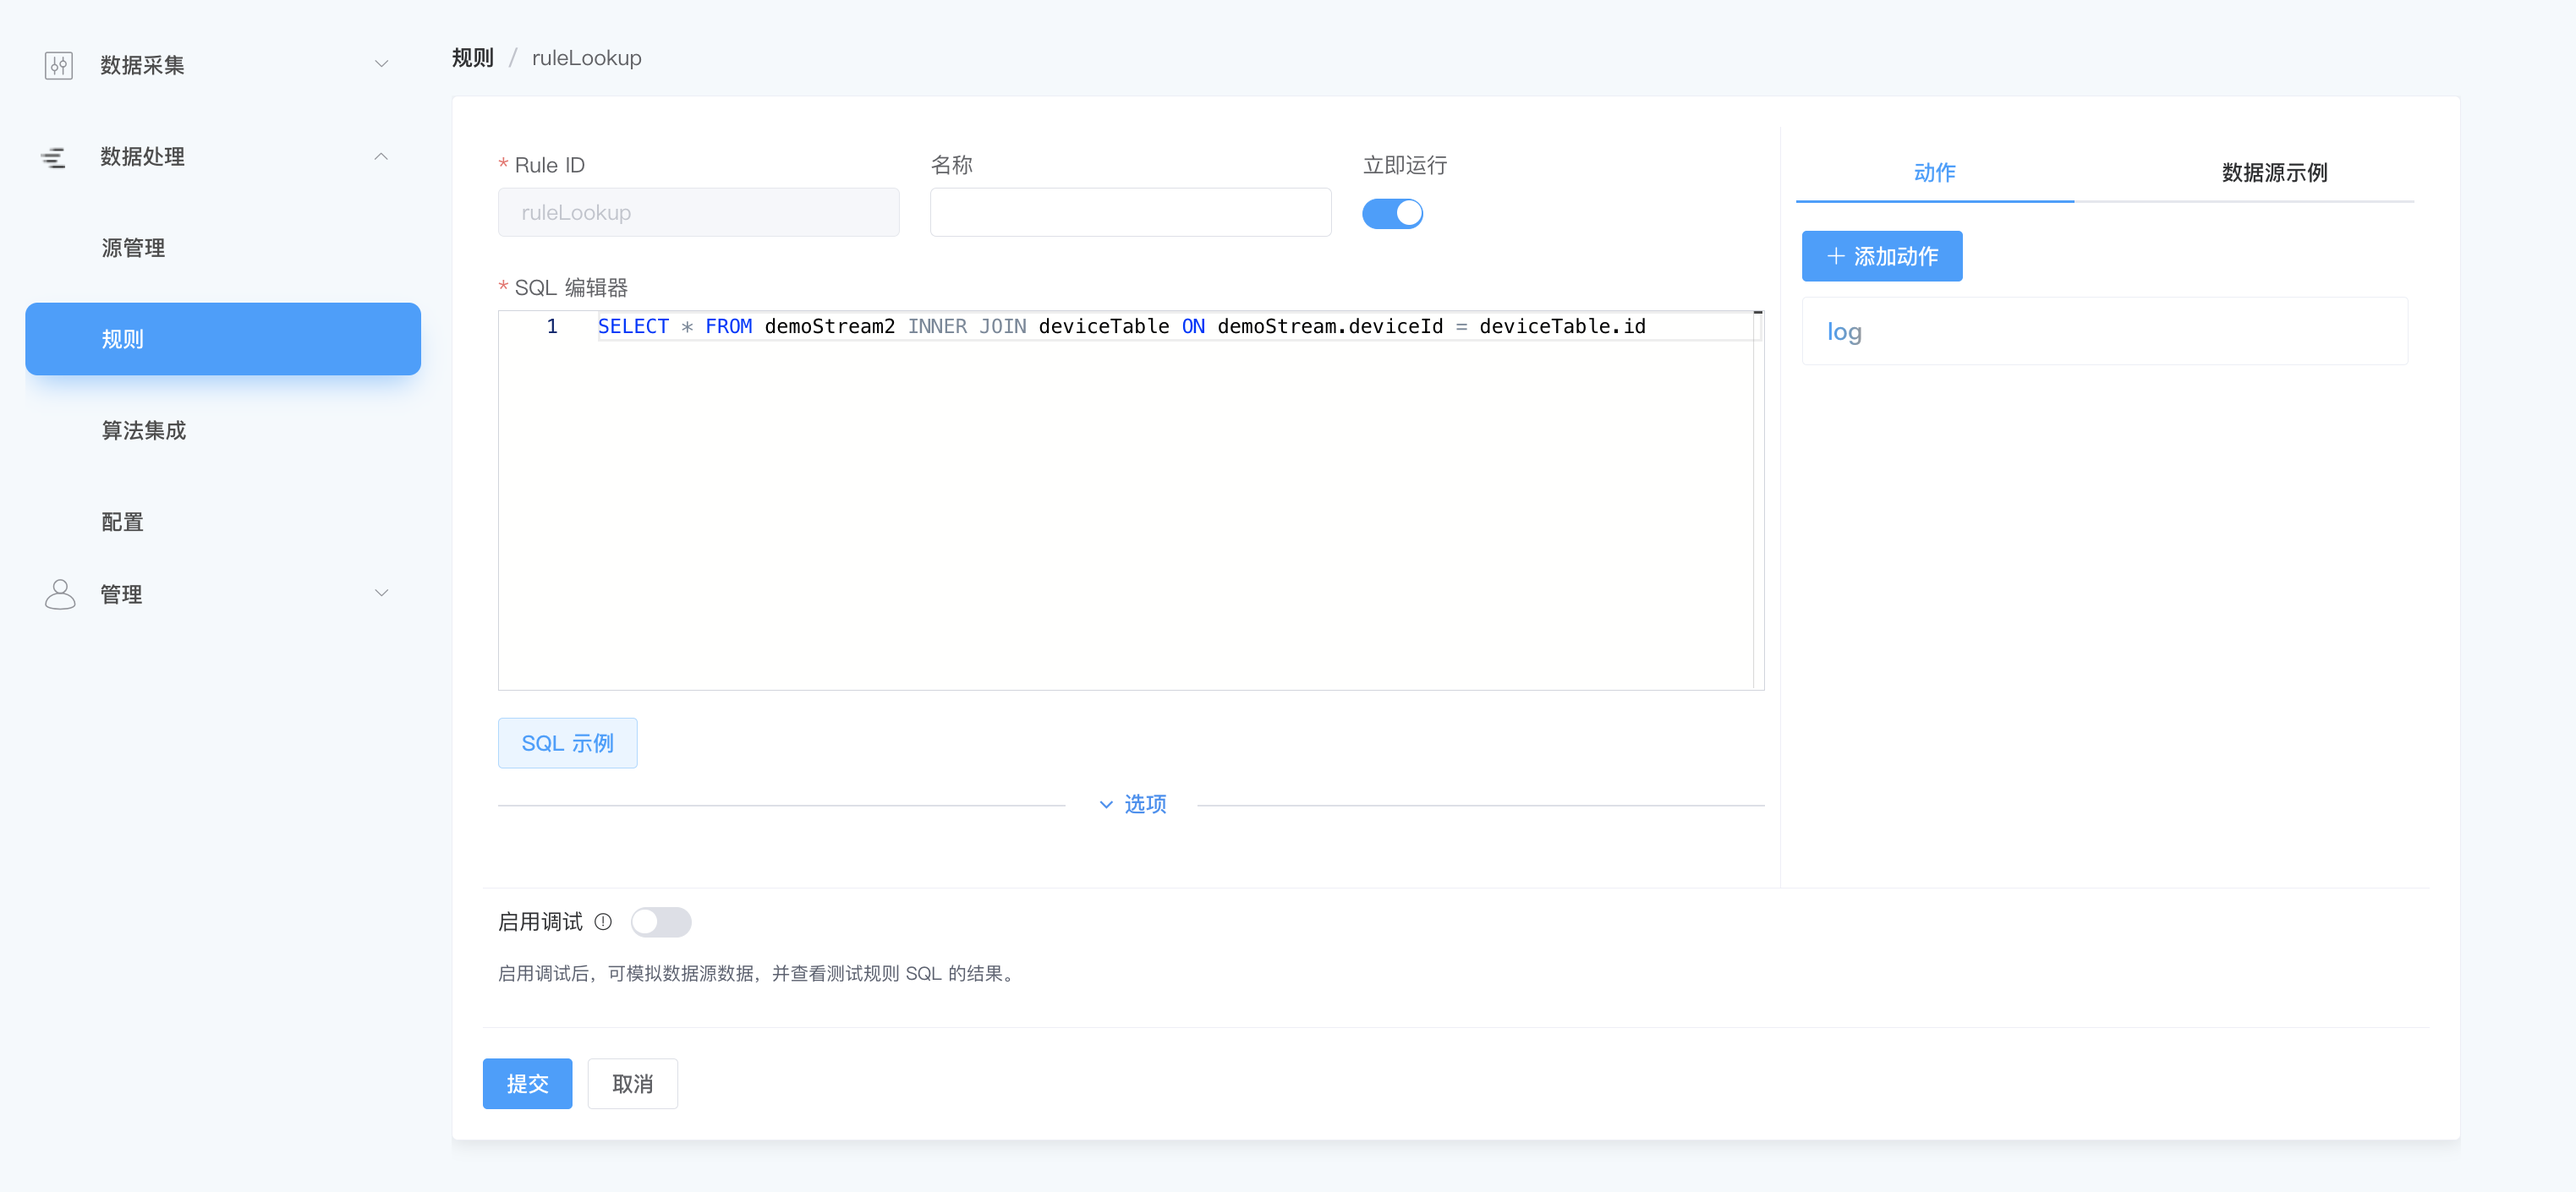
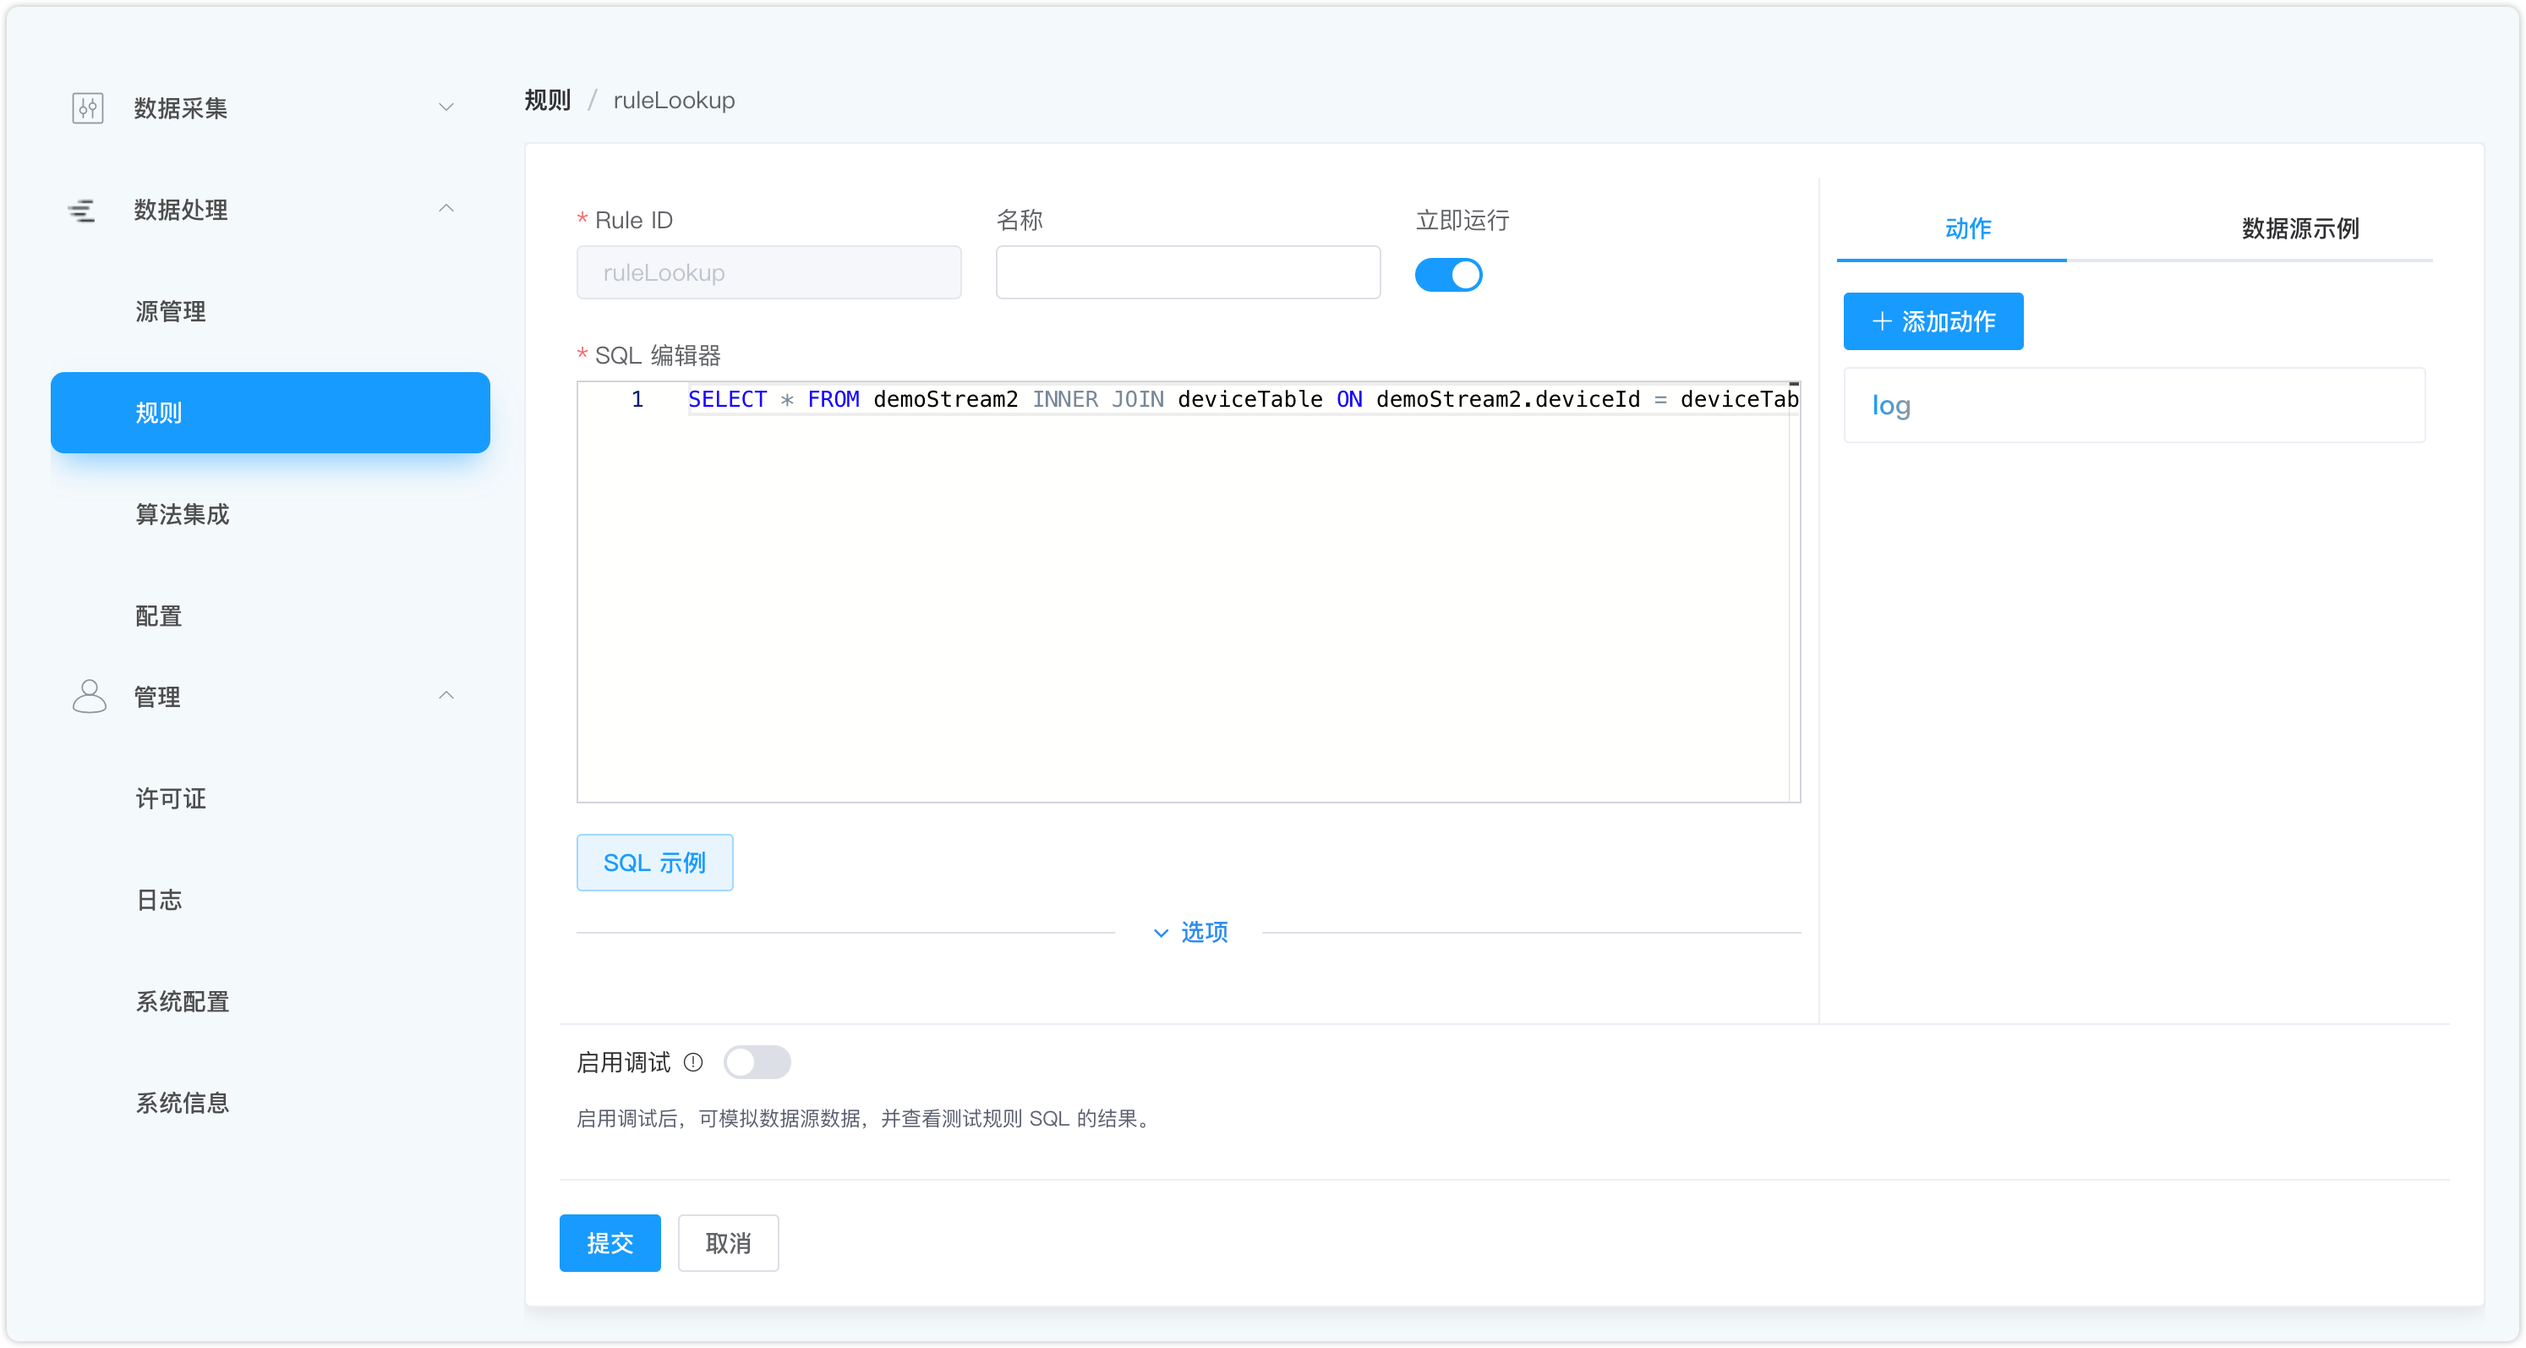
docs: fix some errors

diff --git a/en_US/streaming-processing/lookup.md b/en_US/streaming-processing/lookup.md
@@ -147,7 +147,7 @@ Once the streams and tables are created, we can create the data enrichment rules
 ```json
 {
   "id": "ruleLookup",
-  "sql": "SELECT * FROM demoStream2 INNER JOIN deviceTable ON demoStream.deviceId = deviceTable.id",
+  "sql": "SELECT * FROM demoStream2 INNER JOIN deviceTable ON demoStream2.deviceId = deviceTable.id",
   "actions": [{
     "mqtt": {
       "server": "tcp://myhost:1883",

diff --git a/zh_CN/streaming-processing/lookup.md b/zh_CN/streaming-processing/lookup.md
@@ -48,7 +48,7 @@ INSERT INTO devices (id, name, deviceKind) VALUES
 流和表都创建完成后，我们就可以创建补全规则了。
 
 ```sql
-SELECT * FROM demoStream2 INNER JOIN deviceTable ON demoStream.deviceId = deviceTable.id
+SELECT * FROM demoStream2 INNER JOIN deviceTable ON demoStream2.deviceId = deviceTable.id
 
 ```
 
